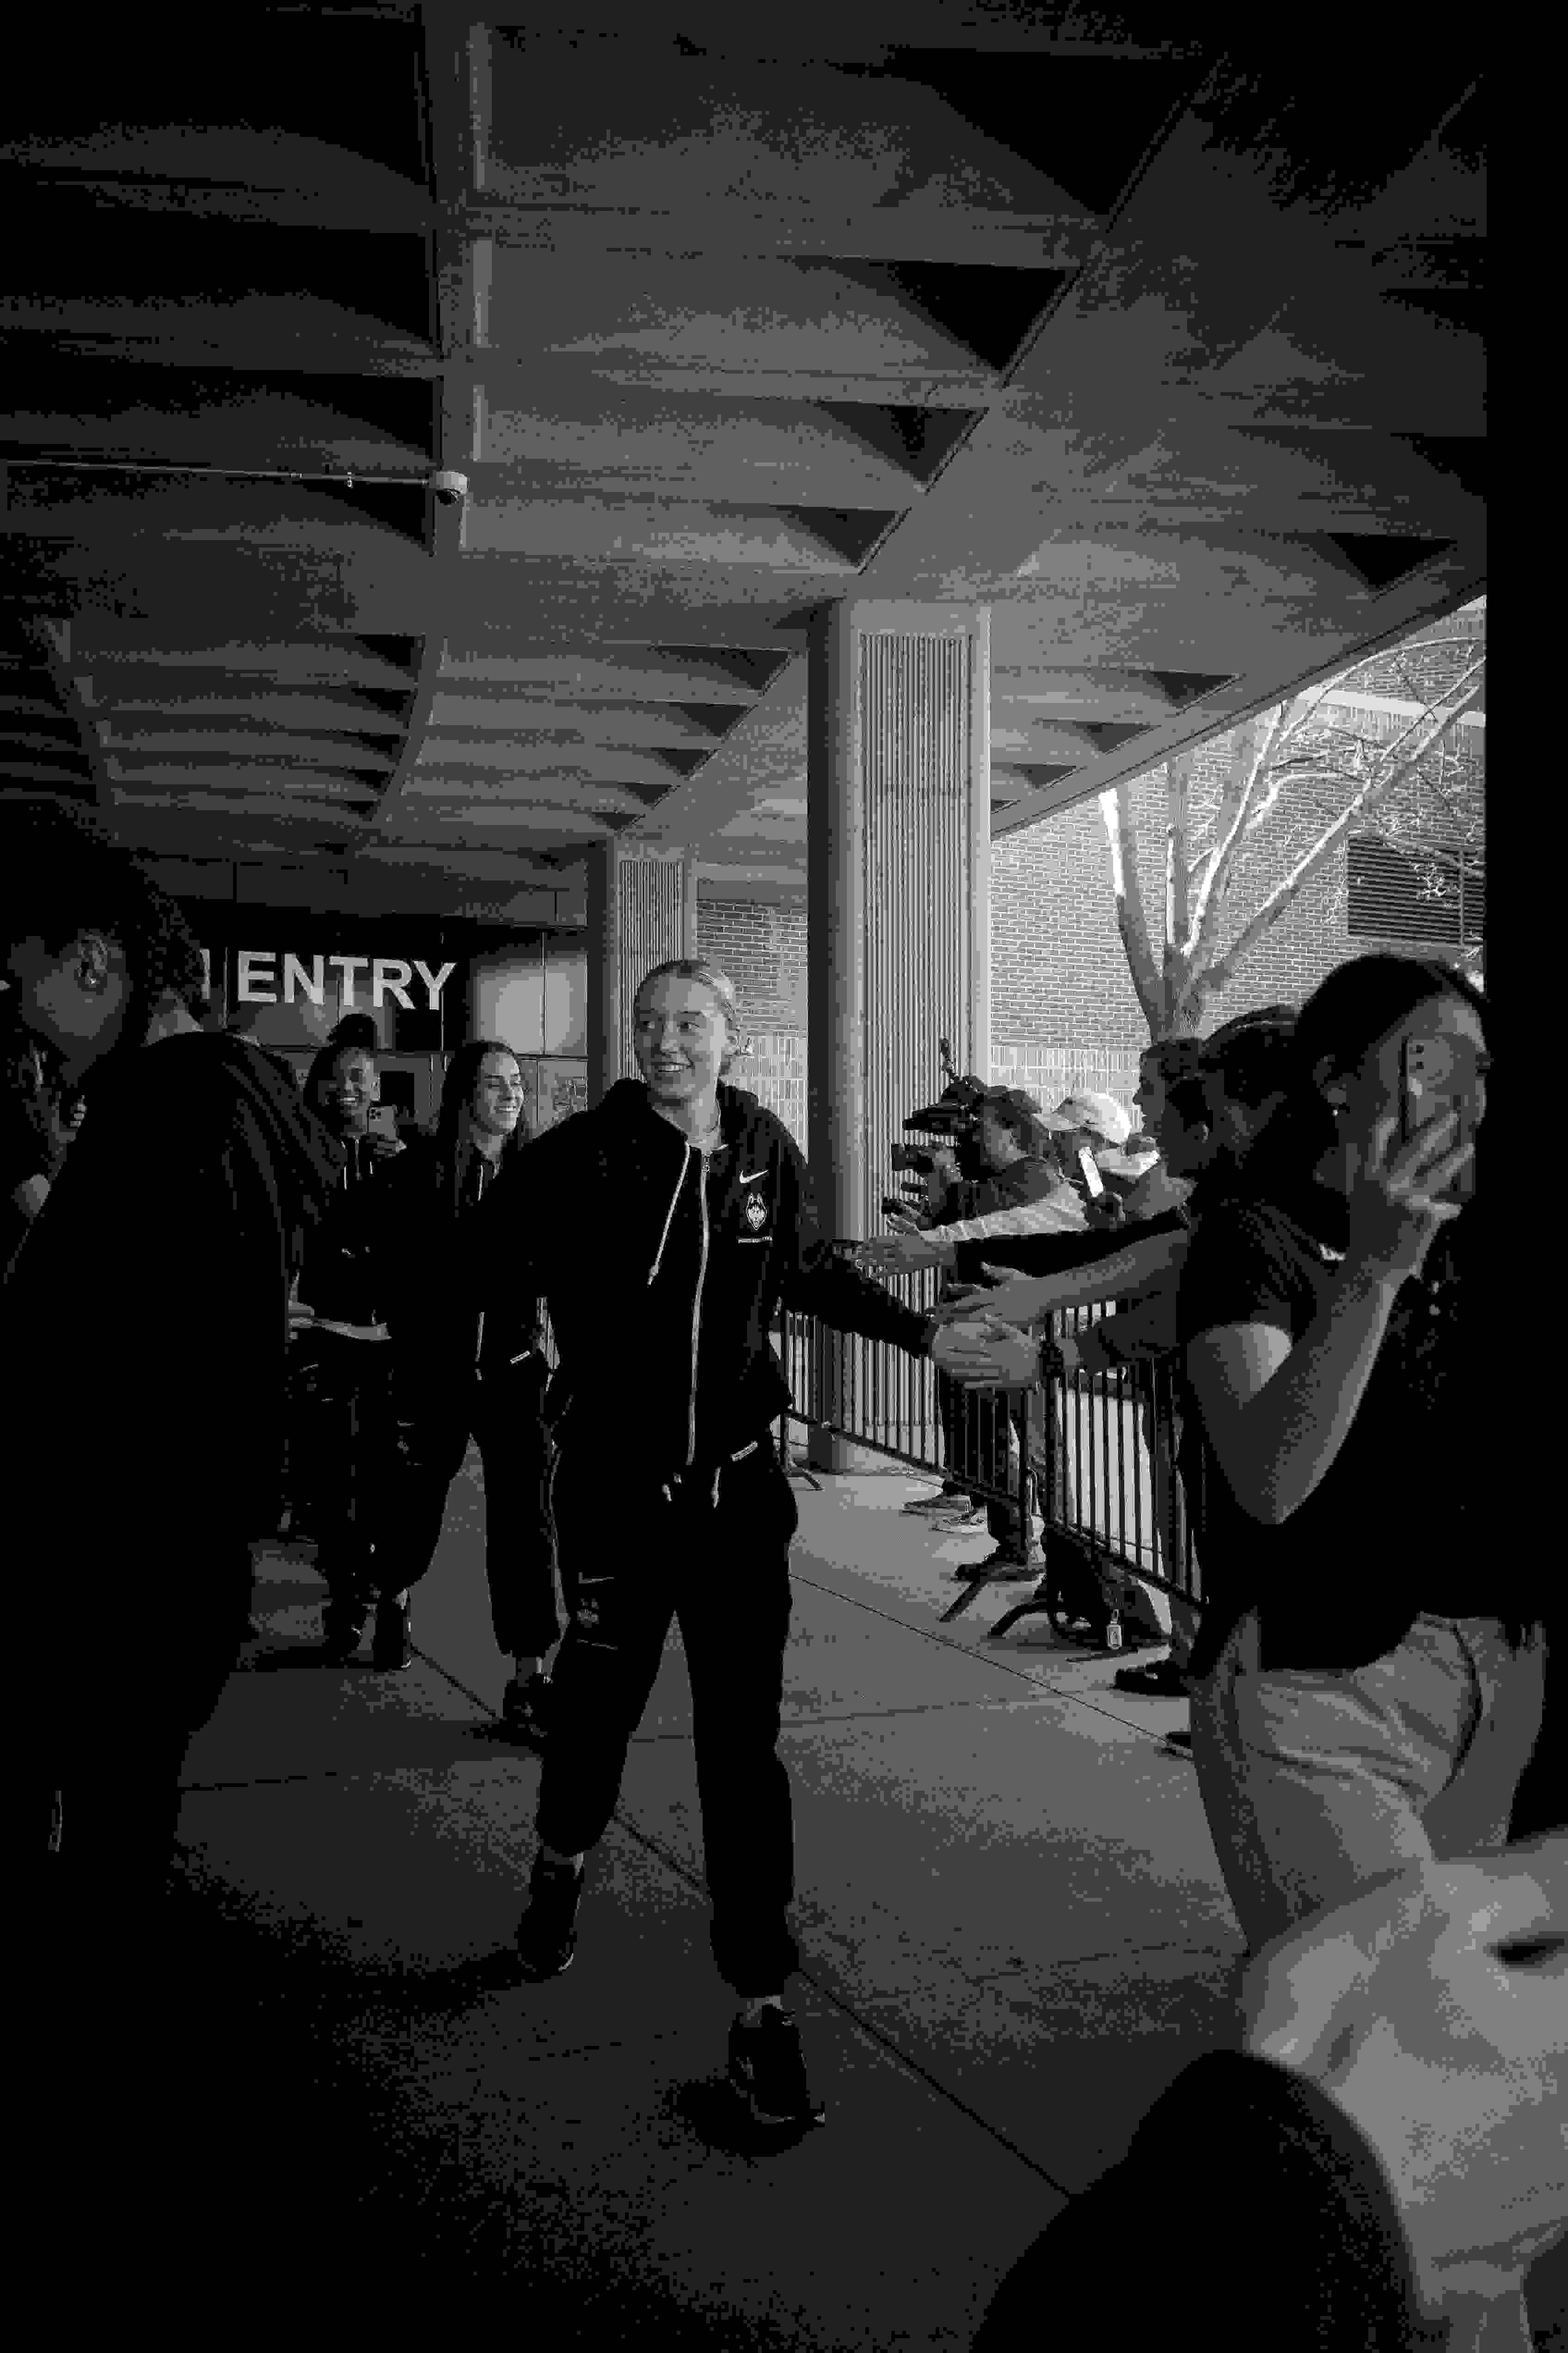
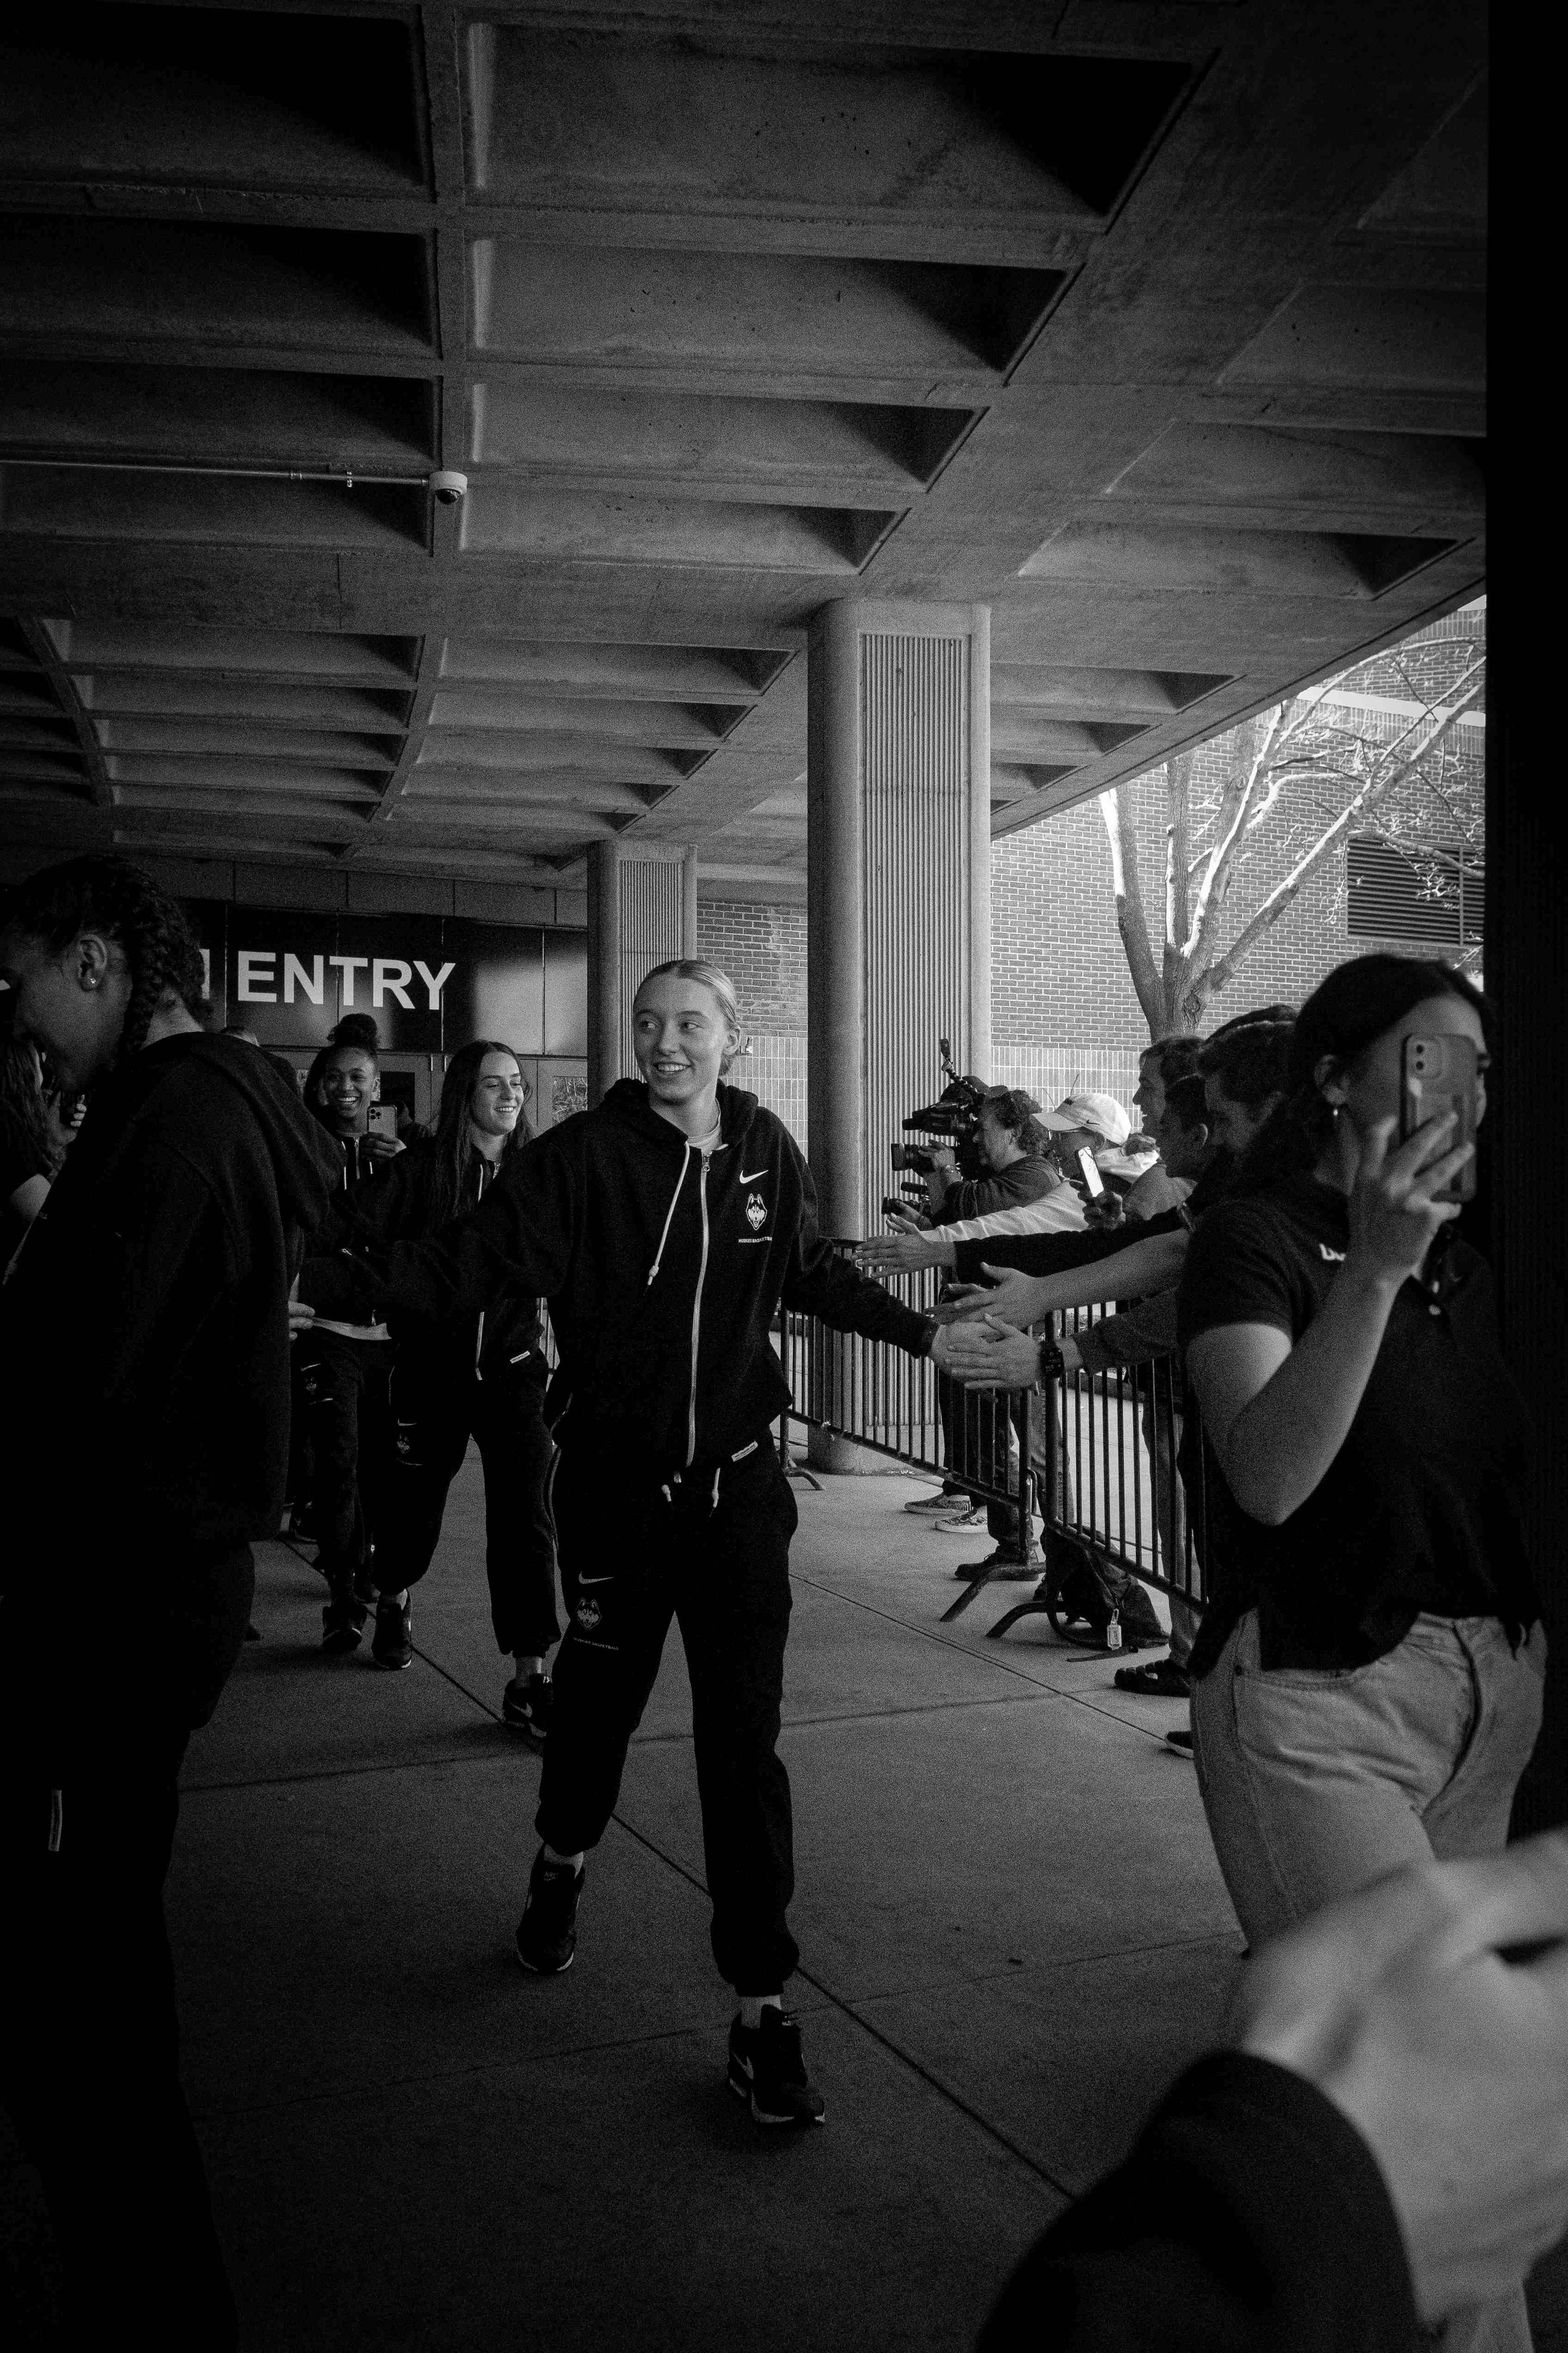
updated readme instructions and optimized images

diff --git a/README.md b/README.md
@@ -4,7 +4,7 @@
 *Everything must be a .jpg labeled as such*
 
 ### setup for first time:
-MAC      --> install brew and then $ brew install jpegoptim
+MAC      --> install homebrew (https://brew.sh/) and then $ brew install jpegoptim
 Ubuntu   --> $ sudo apt-get jpgoptim    
 
 
